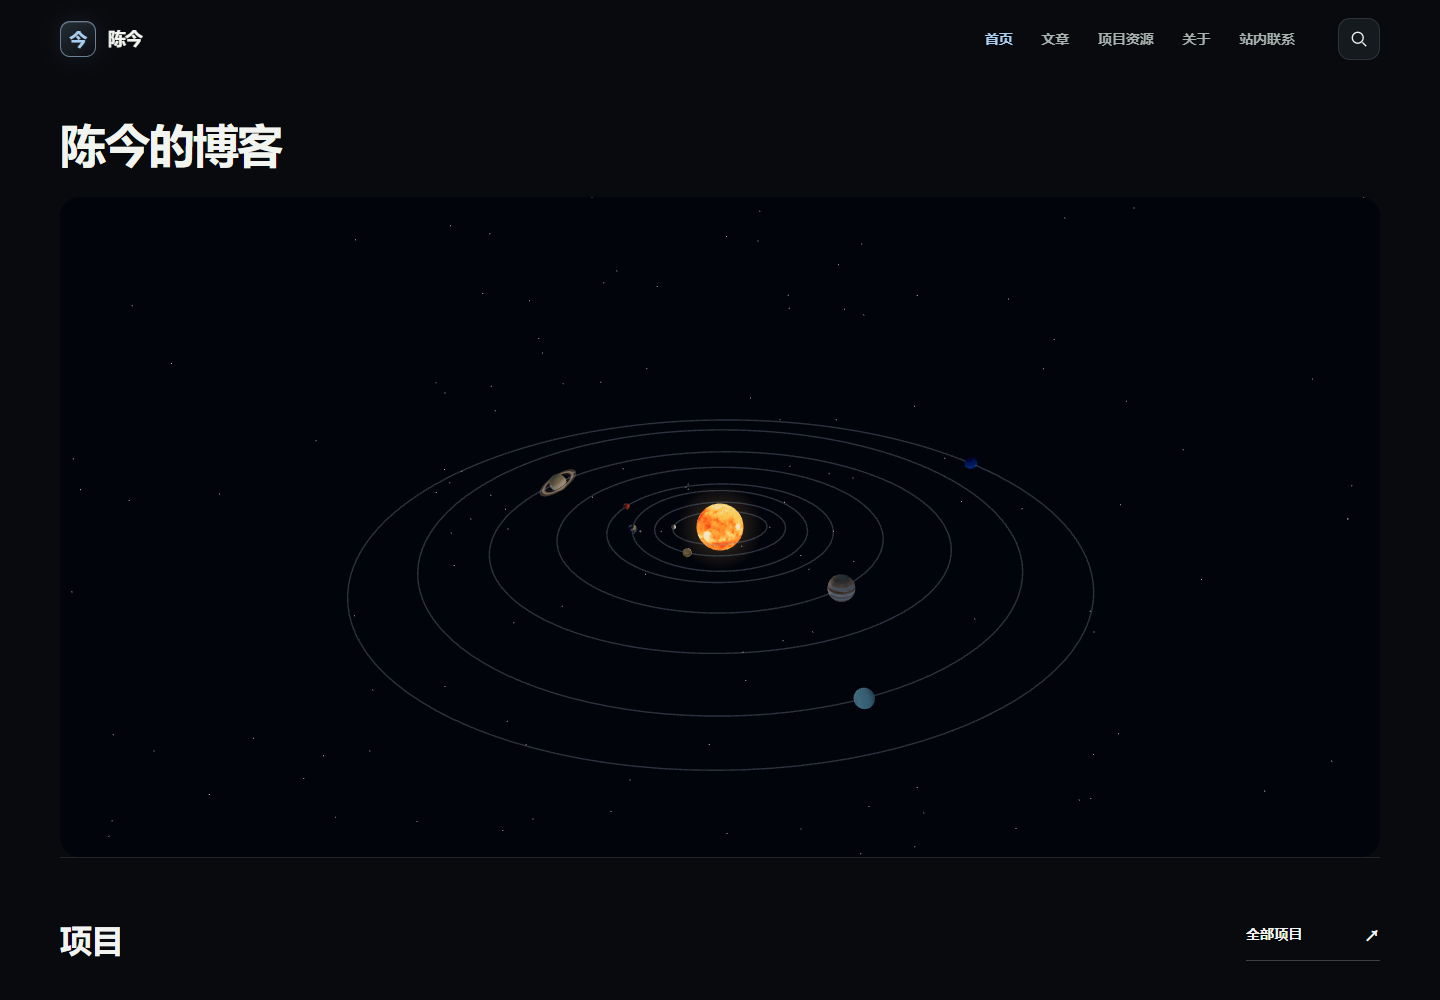
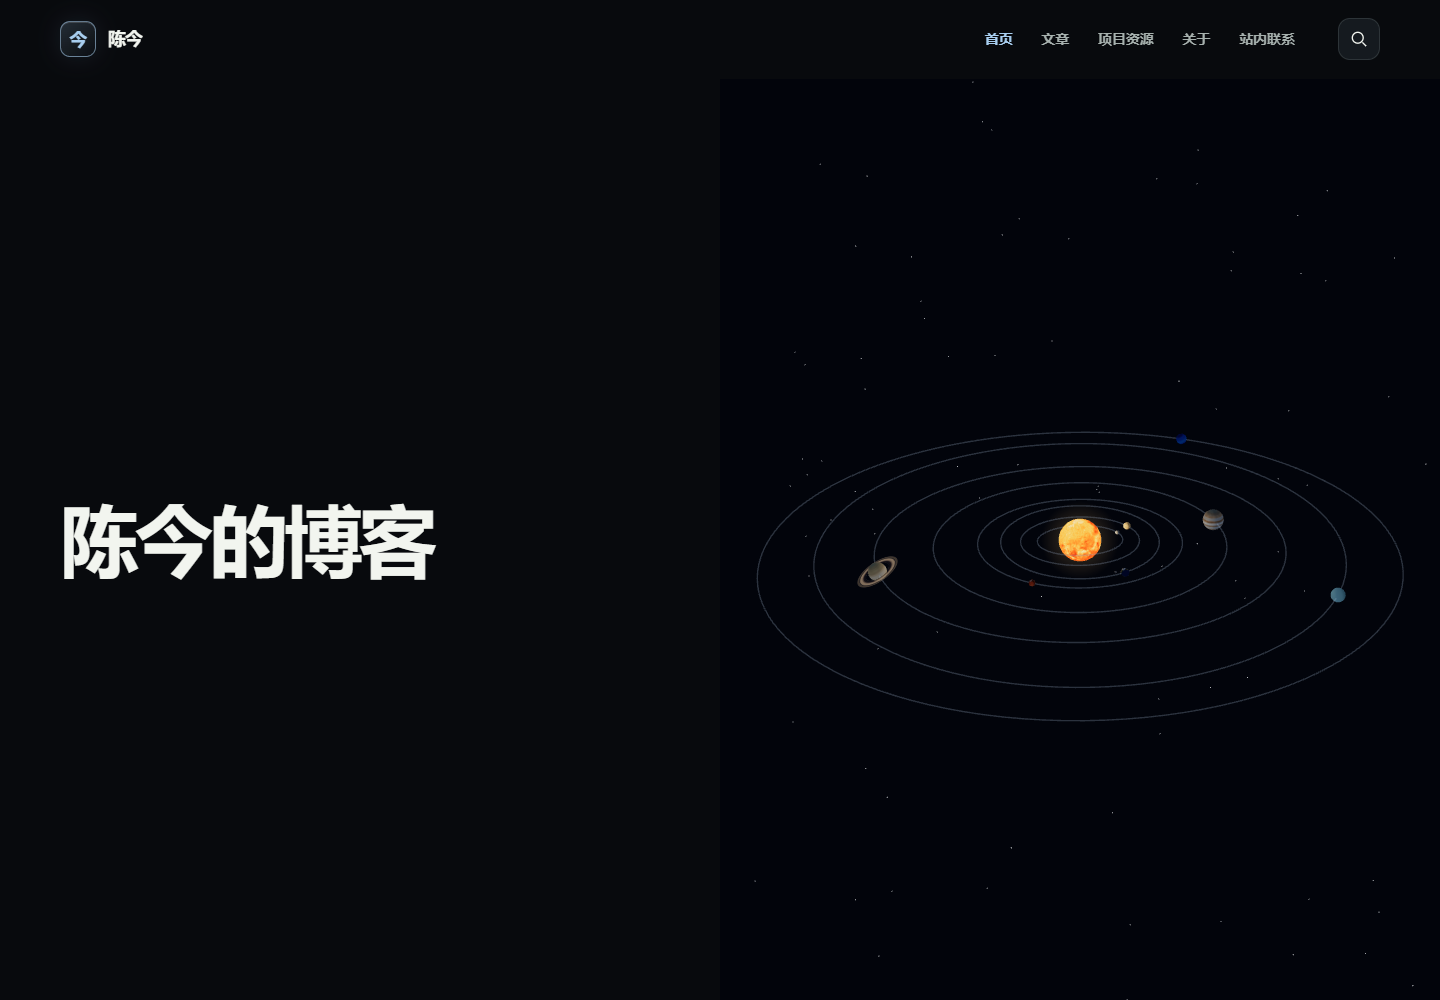
Split homepage hero between site title and right-side solar system

diff --git a/wp-content/themes/chenjin-news/style.css b/wp-content/themes/chenjin-news/style.css
@@ -2,7 +2,7 @@
 Theme Name: Chenjin News
 Description: 陈今的个人博客，专注文章和项目。
 Author: 陈今
-Version: 3.1.1
+Version: 3.2.0
 Template: blocksy
 Requires at least: 6.7
 Requires PHP: 7.4
@@ -122,9 +122,9 @@ body:not(.cjn-ready) .cjn-header-actions { display: none; }
 
 /* Content-first homepage. */
 .cjn-home { position: relative; }
-.cjn-hero { position: relative; display: block; padding-block: 38px 0; border-bottom: 1px solid var(--cjn-line); }
-.cjn-hero-content { position: relative; z-index: 2; display: flex; align-items: center; justify-content: space-between; gap: 24px; }
-.cjn-hero h1 { margin: 0; font-size: clamp(2rem, 3.2vw, 3rem); line-height: 1.2; font-weight: 750; letter-spacing: -.04em; }
+.cjn-hero.cjn-shell { position: relative; display: grid; grid-template-columns: repeat(2, minmax(0, 1fr)); align-items: stretch; width: 100%; margin: 0; padding: 0; border-bottom: 1px solid var(--cjn-line); }
+.cjn-hero-content { position: relative; z-index: 2; display: flex; align-items: center; min-width: 0; padding-inline: clamp(28px, 4.2vw, 90px) 24px; }
+.cjn-hero h1 { margin: 0; font-size: clamp(3rem, 5.4vw, 5.8rem); line-height: 1.2; font-weight: 750; letter-spacing: -.04em; }
 .cjn-hero-actions { display: flex; flex-wrap: wrap; gap: 14px; margin-top: 0; }
 .cjn-home .cjn-section { padding-top: 52px; }
 .cjn-home .cjn-section-heading { margin-bottom: 24px; }
@@ -133,16 +133,19 @@ body:not(.cjn-ready) .cjn-header-actions { display: none; }
 .cjn-home .cjn-article-section { padding-bottom: 72px; }
 
 /* Local WebGL solar system; ordinary blog content remains usable independently. */
-.cjn-solar { position: relative; margin-top: 25px; border-radius: 20px; overflow: hidden; background: #05070b; isolation: isolate; }
-.cjn-solar-viewport { position: relative; width: 100%; height: clamp(460px, 66vh, 720px); outline-offset: -4px !important; }
+.cjn-solar { position: relative; min-width: 0; margin: 0; border-radius: 0; overflow: hidden; background: #05070b; isolation: isolate; }
+.cjn-solar-viewport { position: relative; width: 100%; height: max(500px, calc(100svh - 78px)); outline-offset: -4px !important; }
 .cjn-solar-viewport canvas { display: block; width: 100%; height: 100%; touch-action: none; cursor: grab; }
 .cjn-solar-viewport canvas:active { cursor: grabbing; }
 .cjn-solar-fallback { position: absolute; inset: 0; display: grid; place-items: center; pointer-events: none; }
 .cjn-solar-fallback img { width: min(100%, 1000px); height: auto; mask-image: radial-gradient(ellipse closest-side, #000 65%, transparent 100%); }
 .cjn-solar[data-solar-state="ready"] .cjn-solar-fallback { display: none; }
 .cjn-solar[data-solar-state="failed"] .cjn-solar-viewport canvas { display: none; }
-@media (max-width: 700px) {
-  .cjn-solar { margin-inline: -10px; border-radius: 12px; }
+@media (max-width: 900px) {
+  .cjn-hero.cjn-shell { grid-template-columns: minmax(0, 1fr); }
+  .cjn-hero-content { padding: 38px 24px 28px; }
+  .cjn-hero h1 { font-size: clamp(2.5rem, 7vw, 4rem); }
+  .cjn-solar { margin: 0; border-radius: 0; }
   .cjn-solar-viewport { height: 460px; }
 }
 
@@ -296,8 +299,6 @@ body.cjn-motion [data-reveal] { transition-property: opacity, transform, border-
   .cjn-header-actions { margin-left: auto; }
 }
 @media (max-width: 700px) {
-  .cjn-hero { padding-top: 32px; padding-bottom: 0; }
-  .cjn-hero-content { flex-direction: column; align-items: flex-start; gap: 22px; }
   .cjn-section-heading { align-items: start; flex-direction: column; margin-bottom: 30px; }
   .cjn-section-link { margin-top: 5px; }
   body .ws-project-grid, .home .entries { grid-template-columns: minmax(0, 1fr) !important; }

diff --git a/README.md b/README.md
@@ -21,7 +21,7 @@
 
 首页直接展示项目和文章，不放置介绍口号、英文标签或辅助装饰文字。项目卡片使用精简摘要，展开后保留完整详情；页面保留滚动渐显、阅读进度和页面切换，并支持手机导航、键盘操作与减少动态效果。
 
-- **三维太阳系**：使用本地 Three.js 0.187.0 展示太阳、八大行星和月球的自转、绕转、土星环及昼夜明暗。固定演示速度保证 1 秒内可看出运动，外侧行星绕转逐渐放慢。可拖动旋转视角、滚轮或双指缩放；点击天体聚焦，双击或按 Esc 返回总览。场景没有操作按钮。运动周期仅用于视觉演示，不代表真实星历或天体物理周期；半径和轨道距离也经过压缩，比例不代表真实尺寸或距离。
+- **三维太阳系**：桌面首屏左半屏显示网站名称，右半屏展示模型；手机与平板上下排列。使用本地 Three.js 0.187.0 展示太阳、八大行星和月球的自转、绕转、土星环及昼夜明暗。固定演示速度保证 1 秒内可看出运动，外侧行星绕转逐渐放慢。可拖动旋转视角、滚轮或双指缩放；点击天体聚焦，双击或按 Esc 返回总览。场景没有操作按钮。运动周期仅用于视觉演示，不代表真实星历或天体物理周期；半径和轨道距离也经过压缩，比例不代表真实尺寸或距离。
 
 
 - **文章与阅读**：使用 WordPress 原生文章、分类、标签、草稿、修订、定时发布、媒体、搜索、分页和 RSS；子主题提供文章目录、代码复制及桌面/手机布局。
@@ -29,14 +29,14 @@
 - **私密联系**：访客填写昵称、主题和正文，无需邮箱；管理员在「站内来信」查看和删除。来信不进入公开搜索、RSS 或 REST API。
 - **管理与运维**：中文后台、评论审核、可自定义导航和 Logo；服务器部署方案包含独立 PHP-FPM、定时任务、登录重试限制与数据库/文件备份。
 
-当前仅保留 `chenjin-news` 子主题（版本 3.1.1）和它所依赖的官方 Blocksy 父主题；GitHub 项目插件 1.1.5、联系插件 1.0.0。
+当前仅保留 `chenjin-news` 子主题（版本 3.2.0）和它所依赖的官方 Blocksy 父主题；GitHub 项目插件 1.1.5、联系插件 1.0.0。
 
 ## 下载
 
 从 [Releases](https://github.com/wobuyaoquminga/chenjin-blog/releases/latest) 选择所需文件：
 
-- `chenjin-blog-3.1.1.zip`：完整源码、部署脚本、文档和截图。
-- `chenjin-news-3.1.1.zip`：可通过 WordPress 后台上传的子主题。
+- `chenjin-blog-3.2.0.zip`：完整源码、部署脚本、文档和截图。
+- `chenjin-news-3.2.0.zip`：可通过 WordPress 后台上传的子主题。
 - `chenjin-github-1.1.5.zip`：GitHub 公开项目同步与详情插件。
 - `chenjin-contact-1.0.0.zip`：站内联系插件。
 - `SHA256SUMS.txt`：上述文件的 SHA-256 校验值。

diff --git a/CHANGELOG.md b/CHANGELOG.md
@@ -1,5 +1,10 @@
 # 更新记录
 
+## 3.2.0 — 2026-11-09
+
+- 桌面首屏改为等宽双栏，左侧显示网站名称，右侧展示太阳系模型。
+- 手机与平板使用上下排列，保留固定速度运动与直接手势交互。
+
 ## 3.1.1 — 2026-11-09
 
 - 项目卡片与文章渐显改为每次滚动进入视口时重新播放。
